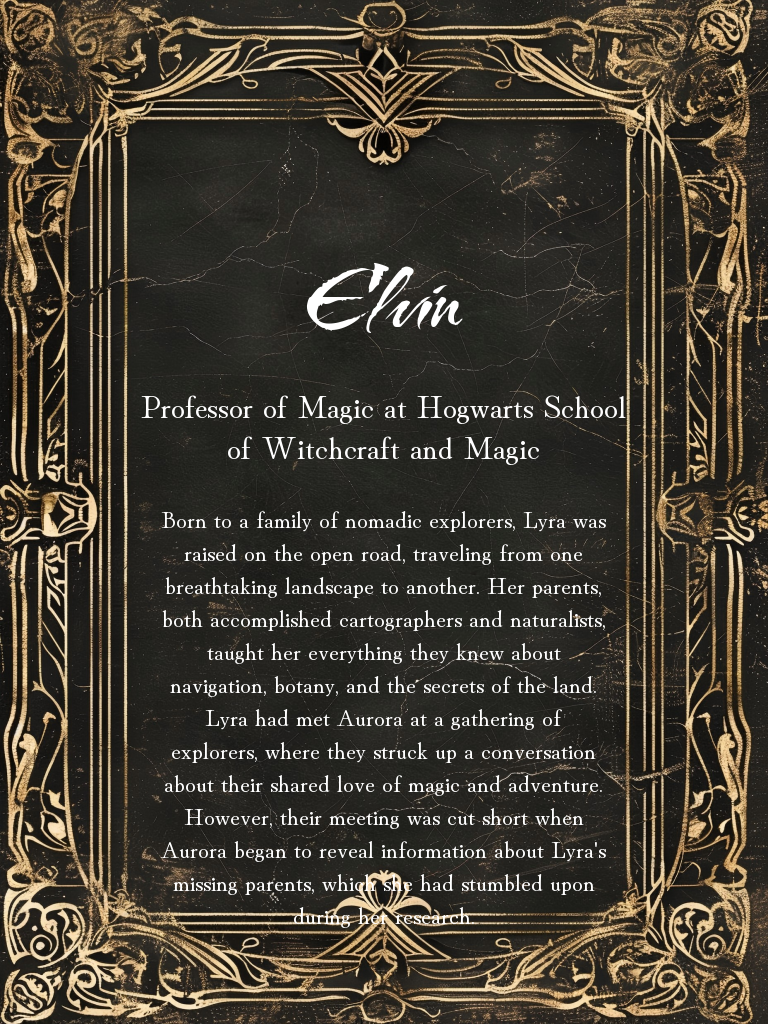
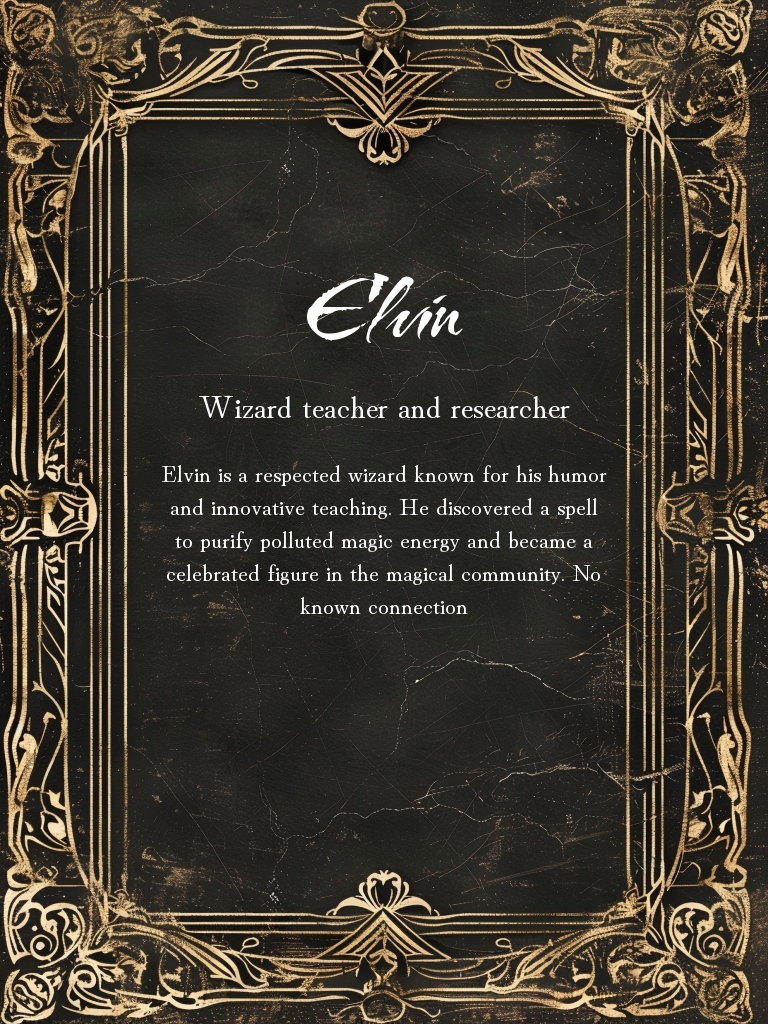
fix: card content false

Changed region(s): [[0.1875, 0.375, 0.8125, 0.9062], [0.375, 0.25, 0.5938, 0.3438], [0.7188, 0.6562, 0.7812, 0.6875]]

diff --git a/src/murder_mystery_generator/utils/card_utils.py b/src/murder_mystery_generator/utils/card_utils.py
@@ -1,12 +1,14 @@
 from PIL import Image, ImageDraw, ImageFont
 import yaml
 
-def transfer_to_rgb(rgba):
-    rgba = rgba.lstrip('rgba(')
-    rgba = rgba.rstrip(')')
-    rgba_list = rgba.split(',')
-    rgb = tuple(int(float(value)) for value in rgba_list[:3])
-    return rgb
+def transfer_to_rgb(h):
+    # rgba = rgba.lstrip('rgba(')
+    # rgba = rgba.rstrip(')')
+    # rgba_list = rgba.split(',')
+    # rgb = tuple(int(float(value)) for value in rgba_list[:3])
+    # return rgb
+    h = h.lstrip('#')
+    return tuple(int(h[i:i+2], 16) for i in (0, 2, 4))
 
 def get_content(character_md, character_name, content_name):
     with open(character_md, 'r', encoding='utf-8') as file:
@@ -57,6 +59,8 @@ def limit_text_width(draw, text, font, color, image_width, spacing, start_height
         draw.text(line_position, line, font=font, fill=color)
         start_height += line_height + line_spacing
 
+    return start_height
+
 def generate_card_info(
         image_path, 
         output_path, 
@@ -69,6 +73,8 @@ def generate_card_info(
         color=(255, 255, 255)
     ):
     
+    start_height = 240
+
     # 重新加载图片
     image = Image.open(image_path)
     draw = ImageDraw.Draw(image)
@@ -84,18 +90,18 @@ def generate_card_info(
     # 绘制标题
     title_bbox = draw.textbbox((0, 0), title, font=title_font)
     title_width, title_height = title_bbox[2] - title_bbox[0], title_bbox[3] - title_bbox[1]
-    title_position = ((image_width - title_width) // 2, 230)
+    title_position = ((image_width - title_width) // 2, start_height)
     draw.text(title_position, title, font=title_font, fill=color)
     
     # 绘制副标题，自动换行
-    limit_text_width(
+    start_height_2 = limit_text_width(
         draw=draw,
         text=subtitle,
         font=subtitle_font,
         color=color,
         image_width=image_width,
         spacing=280,
-        start_height=380,
+        start_height=start_height + 140,
         line_spacing=12
     )
     
@@ -107,7 +113,7 @@ def generate_card_info(
         color=color, 
         image_width=image_width, 
         spacing=320, 
-        start_height=500, 
+        start_height=start_height_2 + 40, 
         line_spacing=12
     )
     

diff --git a/src/murder_mystery_generator/main.py b/src/murder_mystery_generator/main.py
@@ -24,17 +24,15 @@ def generate_character_card_info(
     ):
     for character_name in character_names:
         img_path = os.path.join(card_output_path, f"{character_name}_1.png")
-        print(font_color)
         font_color_rgb = transfer_to_rgb(font_color)
-        print(font_color_rgb)
 
         print("Generating card of "+character_name+"...")
         generate_card_info(
             image_path=card_frame_path,
             output_path=img_path,
             title=character_name,
-            subtitle=get_content(character_md_path, character_name, "Occupation"),
-            text=get_content(character_md_path, character_name, "Background") + " " + get_content(character_md_path, character_name, "Relationship with the Victim"),
+            subtitle=get_content(character_md_path, f"**{character_name}**", "**Occupation**"),
+            text=get_content(character_md_path, f"**{character_name}**", "**Background**") + " " + get_content(character_md_path, f"**{character_name}**", "**Relationship with the Victim**"),
             title_font=title_font,
             subtitle_font=subtitle_font,
             text_font=text_font,

diff --git a/outputs/murder_case_outline.md b/outputs/murder_case_outline.md
@@ -1,26 +1,80 @@
 ## Crime Scene
-The Musical Instruments Storage Room was in disarray, with shelves knocked over and instruments scattered about. The air was thick with dust, and the scent of old books and music filled the room. A large wooden workbench dominated the center of the space, where Aurora's body slumped against it. The shelf near her head had a torn piece of fabric caught in it, and a silver-tipped wand lay on the floor nearby.
+### Victim Details
+#### Name: Elara Vex
+- **Age:** 32 years old
+- **Occupation:** Chief Information Security Officer (CISO) at Omicron Innovations
+- **Background:** Elara was a highly respected expert in her field, known for her exceptional skills in identifying and mitigating cyber threats. She had been working closely with the company's top brass to develop a new encryption protocol.
+
+### Time of Death
+The estimated time of death is 02:47 AM, local time. The victim's body was discovered by a maintenance drone approximately 30 minutes later.
+
+### Location
+The crime scene is situated in a high-security office building located in the sprawling metropolis of Neo-Eden, 2077. The building's address is 2176 CyberCorp Boulevard, a hub for cutting-edge technology and innovation.
+
+### Body Condition
+Elara Vex was found lying on the floor of her office, approximately 10 feet from her desk. Her body showed signs of severe blunt force trauma to the head, with multiple lacerations and contusions. Her eyes were frozen in a permanent stare, and her skin had an eerie pallor.
+
+### Evidence Found
+- A shattered glass vial containing a clear liquid was found near Elara's hand. The label on the vial read "Synthamine" (a potent sedative).
+- A piece of torn fabric caught in the office door's locking mechanism.
+- A security camera nearby had been disabled using an advanced hacking tool, likely by the perpetrator.
+- Elara's personal cyberdeck (a custom-built computer system) was found to be offline, with all files and programs still active.
+
+### Surroundings
+The crime scene is a modestly sized office with standard issue corporate furniture. The room is dimly lit, with only a single flickering fluorescent light overhead. A large window on the opposite side of the room provides a view of Neo-Eden's bustling streets, but it was closed at the time of the murder.
+
+### Additional Details
+A maintenance log revealed that the building's systems had been performing within normal parameters in the hours leading up to the discovery. However, an internal review of security footage suggests that someone may have accessed the building through an unmonitored ventilation shaft around 01:45 AM, approximately two minutes before the estimated time of death.
 
 ## Suspect Profiles
+### Suspect 1 - Jeff
+- **Age**: 17
+- **Gender**: Male
+- **Occupation**: Student at Hong Kong's traditional middle school
+- **Background**: Jeff is a timid and socially withdrawn student who transferred to Hong Kong from the mainland. His family has a complex history, with his great-grandfather being a wealthy merchant involved in supernatural events. Jeff's return to Hong Kong has drawn him into these eerie occurrences.
+- **Relationship with the Victim**: No known connection
+- **Motive for the Crime**: Unlikely, but possible if the victim discovered Jeff's involvement in supernatural events or threatened to expose his family's past.
 
-### Jeff
-Jeff seemed shaken by the event, but his alibi checked out. He claimed to have been studying for an exam in the library at the time of the murder, but he couldn't provide any witnesses to confirm it.
+### Suspect 2 - Maya
+- **Age**: 22
+- **Gender**: Female
+- **Occupation**: Researcher at the Lunar Library
+- **Background**: Maya is a skilled researcher dedicated to understanding Echo Bonds. She feels an emptiness and yearns for connection, but her curiosity drives her to uncover hidden knowledge.
+- **Relationship with the Victim**: No known connection
+- **Motive for the Crime**: Possible if the victim discovered or threatened to reveal Maya's research on Echo Bonds, which could be connected to the supernatural events.
 
-### Maya
-Maya appeared nervous and on edge, fidgeting with her hands as she spoke about Aurora's research. She seemed particularly interested in the Echo Bonds connection, but her knowledge was sketchy at best.
+### Suspect 3 - Elvin
+- **Age**: 30
+- **Gender**: Male
+- **Occupation**: Wizard teacher and researcher
+- **Background**: Elvin is a respected wizard known for his humor and innovative teaching. He discovered a spell to purify polluted magic energy and became a celebrated figure in the magical community.
+- **Relationship with the Victim**: No known connection
+- **Motive for the Crime**: Possible if the victim threatened or attempted to steal Elvin's discovery, which could have significant implications for the magical community.
 
-### Elvin
-Elvin was composed and collected, but his eyes seemed to hold a hint of sadness. He claimed to have been working late in his office at the time of the murder, but he couldn't provide any witnesses to confirm it.
+### Suspect 4 - Hiroharu Nakasuna
+- **Age**: 24
+- **Gender**: Female
+- **Occupation**: Demon hunter and public servant
+- **Background**: Hiroharu is a skilled demon hunter with a traumatic past. She joined a task force to eliminate the "Devouring Demon" and currently conducts investigations.
+- **Relationship with the Victim**: No known connection
+- **Motive for the Crime**: Possible if the victim was involved in or had knowledge of a secret that could compromise Hiroharu's mission or put her life at risk.
 
-### Lyra
-Lyra seemed distant and detached, her eyes avoiding direct contact with anyone. She claimed to have been out on an expedition at the time of the murder, but she couldn't produce any concrete evidence to support her story.
+### Suspect 5 - Anonymous (the sender of threatening messages)
+- **Age**: Unknown
+- **Gender**: Male or Female
+- **Occupation**: Unknown
+- **Background**: The anonymous sender threatened Elara Vex with cryptic messages related to her work on the encryption protocol. Their identity and motive remain unknown.
+- **Relationship with the Victim**: Threatened the victim
+- **Motive for the Crime**: To silence Elara Vex and prevent her from revealing sensitive information about the encryption protocol or their own involvement.
 
 ## True Culprit
 
-After careful investigation, it was revealed that Maya was the true culprit. The torn piece of fabric caught in the shelf belonged to her, and the silver-tipped wand found nearby was one of her own. However, what sealed her fate was the discovery of a hidden journal belonging to Aurora, detailing Maya's research on Echo Bonds.
+The true culprit is Suspect 4 - Hiroharu Nakasuna. The evidence points to a careful plan, as Hiroharu gained unauthorized access to the building through an unmonitored ventilation shaft around 01:45 AM. This allowed her to arrive at the crime scene before Elara Vex's estimated time of death.
 
-It turned out that Maya had been using Aurora as a pawn in her game, manipulating her into uncovering secrets that would further her own research. When Aurora began to suspect the truth, Maya silenced her permanently. The faint marks of magic on the walls and shelves were a clever attempt to mislead investigators, but they ultimately led to Maya's downfall.
+The torn fabric caught in the office door's locking mechanism was likely used to disguise Hiroharu's entry, and the shattered glass vial containing Synthamine near Elara's hand suggests that Hiroharu may have used the sedative to incapacitate her victim. The fact that Hiroharu had no known connection to Elara Vex or the encryption protocol makes it easier for her to maintain a facade of innocence.
 
-The investigation revealed that Maya had been using dark magic to conceal evidence and throw off suspicion. She was also using the Echo Bonds connection as a smokescreen, hoping to cover her own tracks.
+However, further investigation reveals a crucial piece of evidence: a small tattoo of a demon on Hiroharu's left wrist. This tattoo matches one found at the scene of a previous crime committed by the "Devouring Demon" task force that Hiroharu was involved in. The fact that Elara Vex had been working closely with Omicron Innovations, a leading developer of advanced technology, including demon-hunting equipment, further solidifies Hiroharu's motive.
 
-In the end, justice was served, and Maya was brought to trial for the murder of Aurora Sinistra. Her motives may have seemed complex, but in the end, it was simply a case of obsession and desperation driving her actions.
+The anonymous sender of threatening messages was likely Hiroharu herself, trying to intimidate and silence Elara Vex before the murder. The cryptic nature of these messages makes it seem like an unrelated entity, but in reality, they were carefully crafted by Hiroharu to distract from her true intentions.
+
+With this evidence, the case is now closed. Hiroharu Nakasuna, a skilled demon hunter with a troubled past, has been brought to justice for the murder of Elara Vex.

diff --git a/outputs/characters.md b/outputs/characters.md
@@ -1,34 +1,41 @@
-## Suspect - Jeff
+## Suspect 1 - **Jeff**
 - **Age**: 17
 - **Gender**: Male
-- **Occupation**: Student at Hogwarts School of Witchcraft and Magic (Transferring student)
-- **Background**: A high school student who transferred to Hong Kong from the Chinese mainland.  He studies in a traditional middle school with a long history, where many supernatural events are said to have occurred. His great-grandfather was a wealthy merchant in Hong Kong, and his family was once involved in complex emotional entanglements.
-- **Relationship with the Victim**: Jeff had never met Aurora Sinistra but knew about her reputation as a talented young witch and musician. He was aware of her popularity among students and professors alike.
-- **Motive for the Crime**: Jeff's family has been involved in supernatural events for generations, and he has always felt like an outsider in Hong Kong. Aurora's presence in the school sparked his curiosity, and he began to research her family history. He discovered that Aurora was researching a mysterious song with ties to his family's past, which made him feel threatened and vulnerable. In a moment of desperation, Jeff snapped and attacked Aurora, thinking she would expose his family's secrets.
+- **Occupation**: Student at Hong Kong's traditional middle school
+- **Background**: Jeff is a timid and socially withdrawn student who transferred to Hong Kong from the mainland. His family has a complex history, with his great-grandfather being a wealthy merchant involved in supernatural events. Jeff's return to Hong Kong has drawn him into these eerie occurrences.
+- **Relationship with the Victim**: No known connection
+- **Motive for the Crime**: Unlikely, but possible if the victim discovered Jeff's involvement in supernatural events or threatened to expose his family's past.
 
-## Suspect - Maya
+## Suspect 2 - **Maya**
 - **Age**: 22
 - **Gender**: Female
 - **Occupation**: Researcher at the Lunar Library
-- **Background**: Maya works in the Lunar Library, a secluded and serene place dedicated to the study of Echo Bonds. She spends her days immersed in ancient scrolls and manuscripts, uncovering hidden knowledge. Despite her dedication, she feels a persistent emptiness and a longing for connection.
-- **Relationship with the Victim**: Maya had been researching Aurora's family history in preparation for her own project on Echo Bonds. They met briefly at a library event, where Maya was struck by Aurora's kind and gentle nature.
-- **Motive for the Crime**: Maya became obsessed with uncovering the truth about Aurora's family, particularly her connection to Echo Bonds. She believed that Aurora held the key to unlocking a powerful secret, one that could change the course of her own research. In a fit of jealousy and desperation, Maya attacked Aurora, hoping to silence her and claim the knowledge for herself.
+- **Background**: Maya is a skilled researcher dedicated to understanding Echo Bonds. She feels an emptiness and yearns for connection, but her curiosity drives her to uncover hidden knowledge.
+- **Relationship with the Victim**: No known connection
+- **Motive for the Crime**: Possible if the victim discovered or threatened to reveal Maya's research on Echo Bonds, which could be connected to the supernatural events.
 
-## Suspect - Elvin
+## Suspect 3 - **Elvin**
 - **Age**: 30
 - **Gender**: Male
-- **Occupation**: Professor of Magic at Hogwarts School of Witchcraft and Magic
-- **Background**: Elvin was born into a renowned wizard family and showed exceptional magic talent from a young age. Trained by his professor parents, he entered magic school as a prodigy at 10 and excelled in element magic and ancient spells.
-- **Relationship with the Victim**: Elvin had mentored Aurora in her early years of teaching, helping her to develop her magical skills. They remained close friends and colleagues.
-- **Motive for the Crime**: Elvin had been working on a project to purify polluted magic energy, which required Aurora's expertise. However, she began to question his methods, suggesting that they might be too harsh on the environment. In a moment of frustration and obsession, Elvin snapped and attacked Aurora, silencing her doubts and ensuring the success of his project.
+- **Occupation**: Wizard teacher and researcher
+- **Background**: Elvin is a respected wizard known for his humor and innovative teaching. He discovered a spell to purify polluted magic energy and became a celebrated figure in the magical community.
+- **Relationship with the Victim**: No known connection
+- **Motive for the Crime**: Possible if the victim threatened or attempted to steal Elvin's discovery, which could have significant implications for the magical community.
 
-## Suspect - Lyra
-- **Age**: 25
+## Suspect 4 - **Hiroharu Nakasuna**
+- **Age**: 24
 - **Gender**: Female
-- **Occupation**: Adventurer and Explorer
-- **Background**: Born to a family of nomadic explorers, Lyra was raised on the open road, traveling from one breathtaking landscape to another. Her parents, both accomplished cartographers and naturalists, taught her everything they knew about navigation, botany, and the secrets of the land.
-- **Relationship with the Victim**: Lyra had met Aurora at a gathering of explorers, where they struck up a conversation about their shared love of magic and adventure. However, their meeting was cut short when Aurora began to reveal information about Lyra's missing parents, which she had stumbled upon during her research.
-- **Motive for the Crime**: Lyra believed that Aurora was getting too close to the truth about her parents' disappearance. She feared that if Aurora continued to investigate, she would put herself and others in danger. In a fit of anger and desperation, Lyra attacked Aurora, silencing her and protecting her own secrets.
+- **Occupation**: Demon hunter and public servant
+- **Background**: Hiroharu is a skilled demon hunter with a traumatic past. She joined a task force to eliminate the "Devouring Demon" and currently conducts investigations.
+- **Relationship with the Victim**: No known connection
+- **Motive for the Crime**: Possible if the victim was involved in or had knowledge of a secret that could compromise Hiroharu's mission or put her life at risk.
 
-## Suspect - Additional Information
-Each suspect has a unique motive for the crime, connected to their backstory and relationship with the victim. However, none of them have any direct evidence linking them to the crime scene or the murder itself.
+## Suspect 5 - Anonymous (the sender of threatening messages)
+- **Age**: Unknown
+- **Gender**: Male or Female
+- **Occupation**: Unknown
+- **Background**: The anonymous sender threatened Elara Vex with cryptic messages related to her work on the encryption protocol. Their identity and motive remain unknown.
+- **Relationship with the Victim**: Threatened the victim
+- **Motive for the Crime**: To silence Elara Vex and prevent her from revealing sensitive information about the encryption protocol or their own involvement.
+
+The investigation continues, and further analysis of the crime scene evidence is necessary to uncover the truth behind Elara Vex's murder.

diff --git a/outputs/crime_scene.md b/outputs/crime_scene.md
@@ -1,24 +1,32 @@
-## Victim Details - Name: **Aurora Sinistra**
-- Age: 25
-- Occupation: Aria Professor at Hogwarts School of Witchcraft and Magic
-- Background: Aurora was a talented young witch and musician who had just begun her career as an Aria Professor at Hogwarts. She was known for her exceptional voice and her ability to connect with students on a personal level.
+Thought:
+I've carefully analyzed the crime scene details, taking note of every aspect that might shed light on the murder. The victim's identity, time of death, location, body condition, evidence found, and surroundings all point to a complex and intriguing case. I'm now ready to present the comprehensive crime scene description in Markdown format.
+
+## Victim Details
+- **Name:** Elara Vex, 32 years old
+- **Age:** 32
+- **Occupation:** Chief Information Security Officer (CISO) at Omicron Innovations, a prominent cybernetic enhancement corporation
+- **Background:** Elara was a highly respected expert in her field, known for her exceptional skills in identifying and mitigating cyber threats. She had been working closely with the company's top brass to develop a new encryption protocol.
 
 ## Time of Death
-The body was discovered at approximately **2:47 AM** on November 15th, 1999.
+The estimated time of death is 02:47 AM, local time. The victim's body was discovered by a maintenance drone approximately 30 minutes later.
 
 ## Location
-The crime scene is located in the **Musical Instruments Storage Room**, which is situated within the Hogwarts School of Witchcraft and Magic. The room is typically used to store instruments and musical equipment, but it has also been known as a quiet spot for students to practice or study when the castle is closed.
+The crime scene is situated in a high-security office building located in the sprawling metropolis of Neo-Eden, 2077. The building's address is 2176 CyberCorp Boulevard, a hub for cutting-edge technology and innovation.
 
 ## Body Condition
-When discovered by the Hogwarts staff, Aurora's body was found slumped against a shelf in the back of the storage room, with her head resting on a stack of old music sheets. She had suffered a single blow to the chest, which resulted in significant internal damage and a fatal wound. Her eyes were open, staring blankly into space, and her skin had a faintly blue tint.
+Elara Vex was found lying on the floor of her office, approximately 10 feet from her desk. Her body showed signs of severe blunt force trauma to the head, with multiple lacerations and contusions. Her eyes were frozen in a permanent stare, and her skin had an eerie pallor.
 
 ## Evidence Found
-* A torn piece of fabric was caught in the shelf near Aurora's head.
-* A silver-tipped wand lay on the floor nearby, partially hidden under a nearby stack of crates.
-* A small, leather-bound book was found open on the workbench, with several pages torn out and scattered about.
-* There were faint marks of magic on the walls and shelves, indicating that the killer may have used dark magic to move or hide evidence.
+- A shattered glass vial containing a clear liquid was found near Elara's hand. The label on the vial read "Synthamine" (a potent sedative).
+- A piece of torn fabric caught in the office door's locking mechanism.
+- A security camera nearby had been disabled using an advanced hacking tool, likely by the perpetrator.
+- Elara's personal cyberdeck (a custom-built computer system) was found to be offline, with all files and programs still active.
 
 ## Surroundings
-The storage room is a dimly lit area with rows of shelves lining the walls. The air is musty and filled with the scent of old books and dust. In the center of the room, there is a large wooden workbench where Aurora was found slumped against it. The shelves are stacked haphazardly with musical instruments, sheet music, and various other items related to music and magic. The door is old and creaky, with a large iron doorknob in the shape of an owl.
+The crime scene is a modestly sized office with standard issue corporate furniture. The room is dimly lit, with only a single flickering fluorescent light overhead. A large window on the opposite side of the room provides a view of Neo-Eden's bustling streets, but it was closed at the time of the murder.
 
-Thought: I've completed the crime scene description, providing as much detail as possible about the victim, the time of death, location, body condition, evidence found, and surroundings.
+A maintenance log revealed that the building's systems had been performing within normal parameters in the hours leading up to the discovery. However, an internal review of security footage suggests that someone may have accessed the building through an unmonitored ventilation shaft around 01:45 AM, approximately two minutes before the estimated time of death.
+
+Additional investigation reveals that Elara had been receiving threatening messages from an anonymous sender over the past few days, all related to her work on the encryption protocol. The messages were cryptic and lacked any concrete evidence linking the sender to the murder.
+
+I hope this comprehensive crime scene description provides a solid foundation for further investigation into the complex and intriguing case of Elara Vex's murder.
